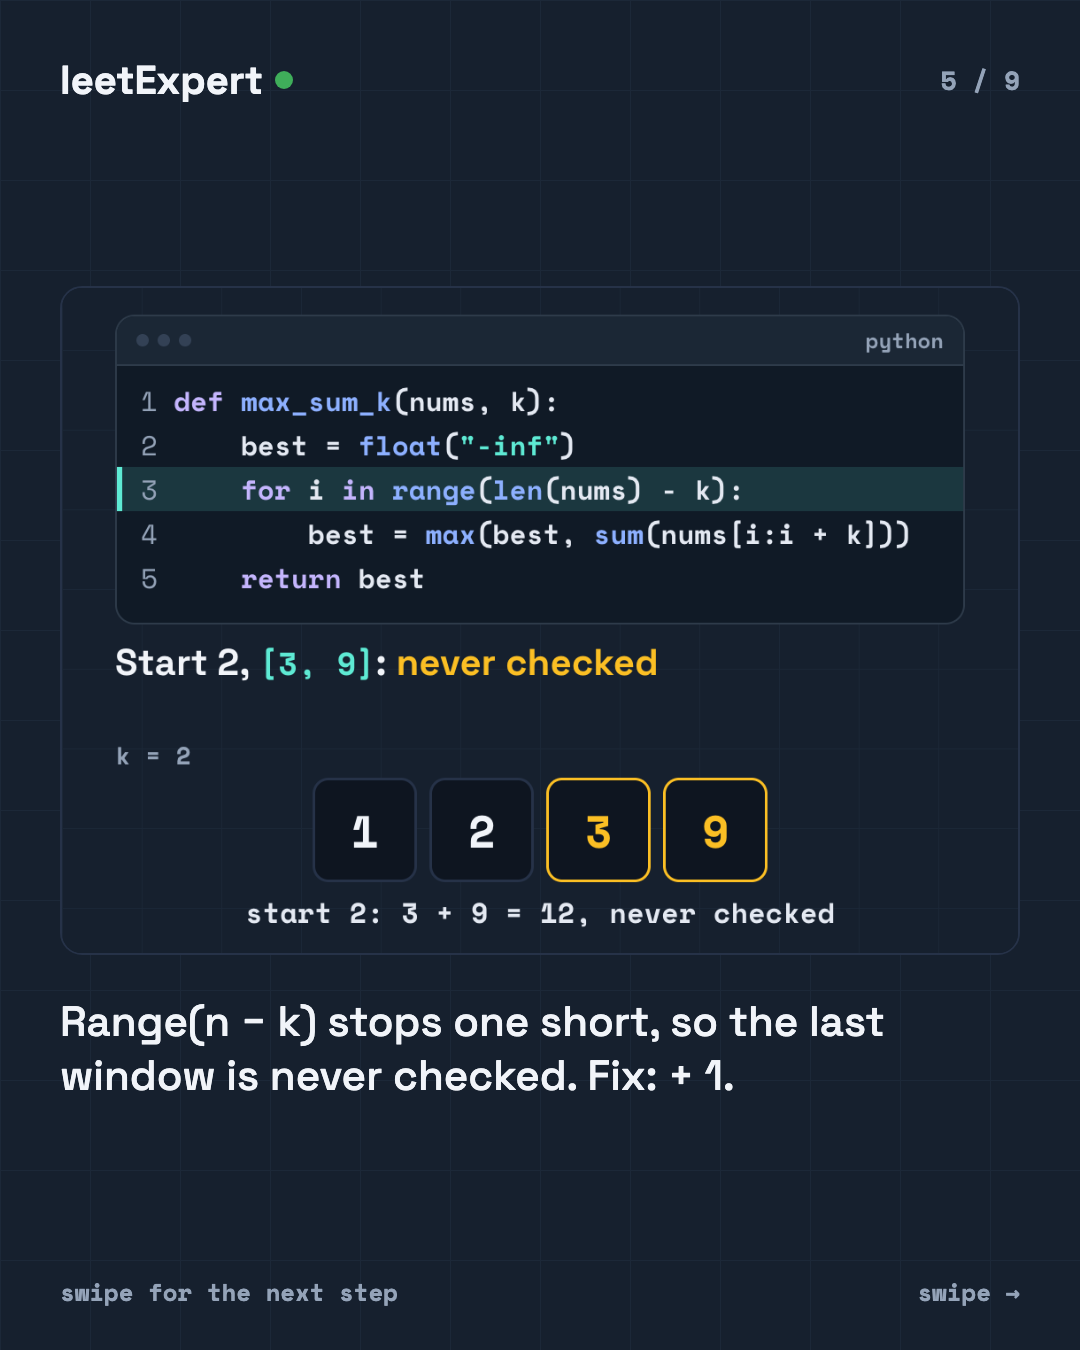
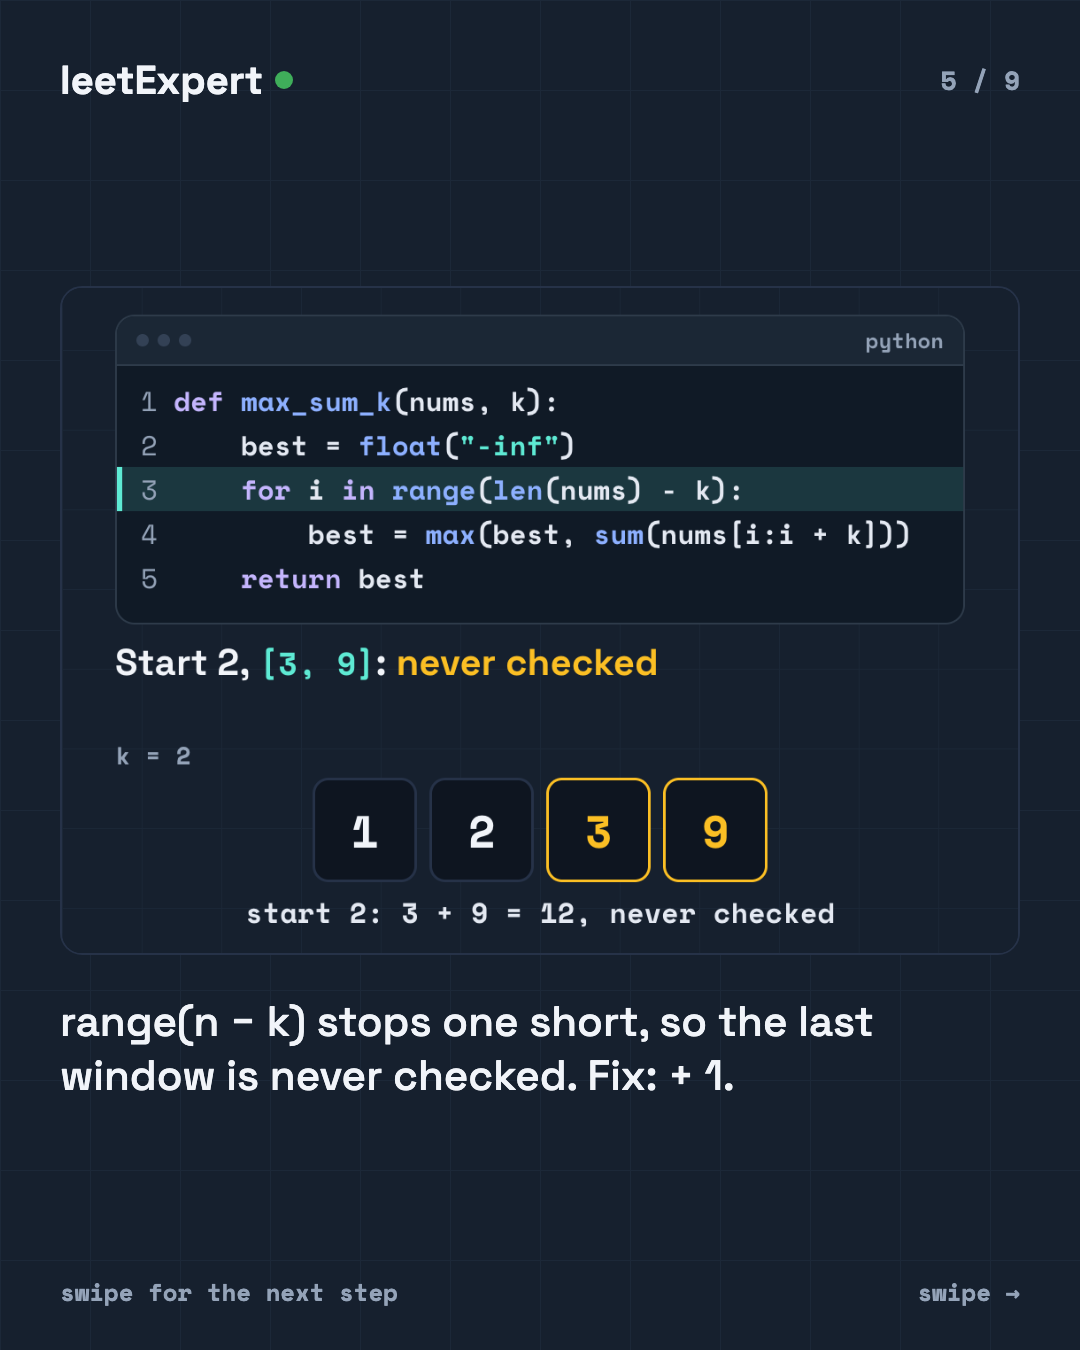
feat(marketing): carousels of the binary-search, JS float-mid and two-pointers reels (#134)
A reel without a rendered cover opens on its hook; slide text is
capitalised only when it does not open on code.

Changed region(s): [[0.2444, 0.7467, 0.825, 0.7778], [0.0611, 0.7467, 0.2139, 0.7778]]

diff --git a/marketing/reels-pipeline/carousel/reelslides.py b/marketing/reels-pipeline/carousel/reelslides.py
@@ -134,15 +134,21 @@ def crop(path, dest):
 
 
 def cap(words):
-    """The reel's words, capitalised because they now start a slide (the check compares them as written)."""
+    """The reel's words, capitalised because they now start a slide (the check compares them as written).
+
+    Never when they open on code: "mid = 7 < 9" is a variable, and "Mid" would be a different one.
+    """
+    if re.match(r"[A-Za-z_]\w*\s*[=(\[.<>+-]", words) or not words[0].islower():
+        return words
     return words[0].upper() + words[1:]
 
 
 def page(n, total, body):
-    """Slide 1 is the reel's cover, whole; the rest carry the brand, a counter and a foot."""
+    """A cover slide is the reel's cover, whole; the rest carry the brand, a counter and a foot."""
     last = n == total
-    head = "" if n == 1 else f'<div class="top"><div class="brand">leetExpert<i></i></div><div class="n">{n} / {total}</div></div>'
-    foot = "" if n == 1 else (f'<div class="foot"><span>{"leetexpert.com" if last else "swipe for the next step"}</span>'
+    full = 'class="cover"' in body
+    head = "" if full else f'<div class="top"><div class="brand">leetExpert<i></i></div><div class="n">{n} / {total}</div></div>'
+    foot = "" if full else (f'<div class="foot"><span>{"leetexpert.com" if last else "swipe for the next step"}</span>'
                               f'<span>{"link in bio" if last else "swipe →"}</span></div>')
     return (f'<!doctype html><html lang="en"><head><meta charset="UTF-8"/><title>slide {n}</title><style>{CSS}</style></head>'
             f'<body>{head}{body}{foot}</body></html>')
@@ -160,10 +166,16 @@ def build(car, snap_frames=False):
         f.unlink()
     d.mkdir(parents=True, exist_ok=True)
     (d / "target").write_text(str(car.relative_to(ROOT)))
-    cover = Image.open(reel / "cover.png").convert("RGB")
-    assert cover.size == (1080, 1920)
-    cover.crop((0, GRID_TOP, 1080, GRID_BOTTOM)).save(d / "cover.png")
-    bodies, alts = [('<div class="cover"><img src="cover.png" alt=""></div>', None)], [section(md, "Hook")]
+    hook = section(md, "Hook")
+    if (reel / "cover.png").exists():
+        cover = Image.open(reel / "cover.png").convert("RGB")
+        assert cover.size == (1080, 1920)
+        cover.crop((0, GRID_TOP, 1080, GRID_BOTTOM)).save(d / "cover.png")
+        bodies, alts = [('<div class="cover"><img src="cover.png" alt=""></div>', None)], [f'The reel\'s cover: "{hook}"']
+    else:
+        # a reel without a rendered cover (its post led with a card) opens on its hook instead
+        bodies = [(f'<div class="content"><div class="k">SAVE THIS</div><div class="say">{e(hook)}</div></div>', None)]
+        alts = [f'A text slide: "{hook}"']
     fi = 0
     for s in spec["slides"]:
         if "at" in s:

diff --git a/marketing/instagram/2026-09-30-two-pointers-reel-carousel/post.md b/marketing/instagram/2026-09-30-two-pointers-reel-carousel/post.md
@@ -1,0 +1,63 @@
+# Two pointers on one card (the real cheatsheet, as a reel and a single image) (carousel)
+
+- **Account:** leetexpert
+- **Archetype:** the reel as a carousel, for people who save rather than watch
+- **Source:** the reel `2026-09-30-two-pointers-card`: its cover, its own frames (captions and tutor off) at the anchors in `sources/slides.json`, and words from its script and caption
+- **Format:** Carousel, 8 slides, 1080×1350
+- **Plan:** issue #134 (epic #132)
+- **Status:** rendered, not scheduled.
+- **Media:** `slide1.png`, `slide2.png`, `slide3.png`, `slide4.png`, `slide5.png`, `slide6.png`, `slide7.png`, `slide8.png`
+
+## Hook (first line — all most people read)
+
+Two pointers on one card. Save this.
+
+## Caption
+
+Two pointers, the whole pattern on one card. 📌 Save this.
+
+Sorted array + pair sum → opposite ends: l at the front, r at the back; too small moves l in, too big moves r in.
+Remove / move while reading ahead → fast & slow: fast explores, slow marks the end of what you keep.
+Area between two lines → move inward, always the shorter side (the taller one can never raise the minimum).
+Merge two sorted lists → one pointer each: take the smaller head, then append the rest.
+
+Targets: O(n) time with O(1) extra space; the merge is O(n+m).
+⚠ Opposite ends needs sorted data.
+⚠ Watch l < r: with l <= r the middle element can pair with itself.
+
+This is the real two-pointers cheatsheet from leetExpert. There are 21, one for every module with practice problems.
+
+Your turn: checking whether a string is a palindrome. Which pattern? 👇
+
+leetExpert, the interactive DSA course. Link in bio.
+
+## Hashtags
+
+#twopointers #cheatsheet #studygram #leetcode #codinginterview
+
+## Alt text (per slide)
+
+**Slide 1.** A text slide: "Two pointers on one card. Save this."
+
+**Slide 2.** Under "Sorted array, pair / triplet sum → Opposite ends", Python two_sum(numbers, target) with l, r = 0, len(numbers) - 1 and while l < r; the branch if s < target: l += 1 is highlighted with the note "Sum too small: move l in". On 2, 7, 11, 15, l is on 2 and r on 7: 2 + 7 = 9.
+
+**Slide 3.** Under "Remove / move while reading ahead → Fast / slow", Python remove_duplicates(nums) with if nums[fast] != nums[slow]: slow += 1; nums[slow] = nums[fast] highlighted and the note "Something new? slow steps forward, takes it". The array reads 0, 1, 2, 3 kept, then dimmed values, with fast on a 4: 4 is new.
+
+**Slide 4.** Under "Container / area between indices → Inward from tallest hope", Python max_area(h) with if h[l] < h[r]: l += 1 else: r -= 1 highlighted and the note "Move the shorter side: the taller one can never raise the minimum". Heights 1, 8, 6, 2, 5, 4, 8, 3, 7; returns 49.
+
+**Slide 5.** Under "Merge two sorted streams → One pointer each", Python merge(a, b) with return out + a[i:] + b[j:] highlighted and the note "One runs out: append the rest". a is 1, 2, 4 and b is 1, 3, 4: + the rest → [1, 1, 2, 3, 4, 4].
+
+**Slide 6.** "Two traps": forgetting the sort prerequisite (opposite-end sum logic is wrong on unsorted data; sort first or pick another pattern) and crossing pointers (the loop condition is usually l < r; equality can double-count the middle element). while l < r ✓ against while l <= r, where [3], 6 → [1, 1] ✗.
+
+**Slide 7.** A text slide under "Your turn": Checking whether a string is a palindrome. Which pattern?
+
+**Slide 8.** Closing slide: every step of this, visualised, in leetExpert, the interactive DSA course. leetexpert.com, link in bio.
+
+## Verified facts
+
+- Every word on a slide is in the reel's `script.txt` or caption (`reelslides.py` fails otherwise), and those are held to the code by the reel's `verify.py` and `verify.mjs`. The frames are the reel's own render at those moments, so the stage shows what the reel's code did.
+- `render.mjs` fails if any slide's text leaves its frame.
+
+## Sources
+
+`sources/slides.json` (the slides), built by `marketing/reels-pipeline/carousel/reelslides.py`; see its README.

diff --git a/marketing/instagram/2026-09-30-js-float-mid-carousel/post.md b/marketing/instagram/2026-09-30-js-float-mid-carousel/post.md
@@ -1,0 +1,67 @@
+# Binary search in JavaScript. One character is wrong. (the float `mid`) (carousel)
+
+- **Account:** leetexpert
+- **Archetype:** the reel as a carousel, for people who save rather than watch
+- **Source:** the reel `2026-09-30-js-float-mid`: its cover, its own frames (captions and tutor off) at the anchors in `sources/slides.json`, and words from its script and caption
+- **Format:** Carousel, 9 slides, 1080×1350
+- **Plan:** issue #134 (epic #132)
+- **Status:** rendered, not scheduled.
+- **Media:** `slide1.png`, `slide2.png`, `slide3.png`, `slide4.png`, `slide5.png`, `slide6.png`, `slide7.png`, `slide8.png`, `slide9.png`
+
+## Hook (first line — all most people read)
+
+Binary search in JavaScript. One character is wrong.
+
+## Caption
+
+Tested on [1, 3, 5, 7, 9, 11, 13]: every target found. Would you ship it? 🤔
+
+const mid = (lo + hi) / 2;
+
+Search [2, 4, 6, 8] for 6 → -1. But 6 is right there.
+
+lo = 0, hi = 3 → (0 + 3) / 2 = 1.5. JavaScript doesn't round, so arr[1.5] is undefined. undefined isn't === 6 and isn't < 6, so the code falls into the last branch: hi = 0.5. It never looks at a real index again.
+
+Why did the tests pass? On 7 numbers, lo + hi is even at every step. The bug only hides on lengths 1, 3, 7, 15…: one less than a power of two.
+
+Python's / makes a float too, but it crashes: "TypeError: list indices must be integers or slices, not float". Loud beats silently wrong.
+
+Fix: const mid = lo + Math.floor((hi - lo) / 2);
+It's always a whole index, and it never adds two huge numbers (overflow-safe in Java/C++).
+
+Your turn: 7 hides the bug. What's the next length that does? 👇
+
+Step through every line on leetExpert, the interactive DSA course. Link in bio.
+
+## Hashtags
+
+#javascript #binarysearch #javascripttips #debugging #webdev
+
+## Alt text (per slide)
+
+**Slide 1.** The reel's cover: "Binary search in JavaScript. One character is wrong."
+
+**Slide 2.** binarySearch([2, 4, 6, 8], 6) → -1 ✗, over the note "6 is right there, at index 2".
+
+**Slide 3.** const mid = (lo + hi) / 2; over the array 2, 4, 6, 8, with a marker between indices 1 and 2 labelled 1.5: lo = 0, hi = 3 → (0 + 3) / 2 = 1.5, and arr[1.5] → undefined.
+
+**Slide 4.** The same array: arr[1.5] is undefined, so === 6? is false and < 6? is false, so hi = mid − 1 = 0.5.
+
+**Slide 5.** "Why the tests passed: on 7 numbers, lo + hi is even at every step." Lengths 1 to 16 in a grid: 1, 3, 7 and 15 are marked hides, the rest fails. Hides only on 2^k − 1: one less than a power of two.
+
+**Slide 6.** "Python, same slash": mid = (lo + hi) / 2 gives TypeError: list indices must be integers or slices, not float. Loud beats silently wrong.
+
+**Slide 7.** The fixed JavaScript binarySearch with const mid = lo + Math.floor((hi - lo) / 2); highlighted and the note "Never adds two huge numbers: overflow-safe in Java or C++"; the stage shows 2, 4 dimmed and lo on 6: 4 < 6 → lo = 2.
+
+**Slide 8.** A text slide under "Your turn": 7 hides the bug. What's the next length that does?
+
+**Slide 9.** Closing slide: every step of this, visualised, in leetExpert, the interactive DSA course. leetexpert.com, link in bio.
+
+## Verified facts
+
+- Every word on a slide is in the reel's `script.txt` or caption (`reelslides.py` fails otherwise), and those are held to the code by the reel's `verify.py` and `verify.mjs`. The frames are the reel's own render at those moments, so the stage shows what the reel's code did.
+- `render.mjs` fails if any slide's text leaves its frame.
+
+## Sources
+
+`sources/slides.json` (the slides), built by `marketing/reels-pipeline/carousel/reelslides.py`; see its README.

diff --git a/marketing/instagram/2026-09-30-binary-search-halves-carousel/post.md b/marketing/instagram/2026-09-30-binary-search-halves-carousel/post.md
@@ -1,0 +1,74 @@
+# Watch binary search throw away half (carousel)
+
+- **Account:** leetexpert
+- **Archetype:** the reel as a carousel, for people who save rather than watch
+- **Source:** the reel `2026-09-30-binary-search-halves`: its cover, its own frames (captions and tutor off) at the anchors in `sources/slides.json`, and words from its script and caption
+- **Format:** Carousel, 10 slides, 1080×1350
+- **Plan:** issue #134 (epic #132)
+- **Status:** rendered, not scheduled.
+- **Media:** `slide1.png`, `slide2.png`, `slide3.png`, `slide4.png`, `slide5.png`, `slide6.png`, `slide7.png`, `slide8.png`, `slide9.png`, `slide10.png`
+
+## Hook (first line — all most people read)
+
+Watch binary search throw away half.
+
+## Caption
+
+Find 9 in [1, 3, 5, 7, 9, 11, 13]. 📖 Do what you'd do with a paper dictionary: open the middle, keep one half, ignore the other.
+
+mid = 7 < 9 → everything up to 7 is too small. Gone.
+mid = 11 > 9 → 11 and everything after it. Gone.
+mid = 9 → found, in 3 checks.
+
+def binary_search(arr, target):
+    lo, hi = 0, len(arr) - 1
+    while lo <= hi:
+        mid = lo + (hi - lo) // 2
+        if arr[mid] == target: return mid
+        elif arr[mid] < target: lo = mid + 1
+        else: hi = mid - 1
+    return -1
+
+Each check halves the range: O(log n). A million sorted numbers take at most 20 checks. A billion, 30.
+
+⚠ The classic bug: lo = mid instead of mid + 1. Search [1, 3] for 3: mid stays 0 and lo stays 0, forever.
+⚠ It only works on sorted data, or anything where one comparison tells you which half to drop.
+
+Your turn: how many checks to find 13 in this list? 👇
+
+Step through every line on leetExpert, the interactive DSA course. Link in bio.
+
+## Hashtags
+
+#binarysearch #algorithms #computerscience #python #leetcode
+
+## Alt text (per slide)
+
+**Slide 1.** The reel's cover: "Watch binary search throw away half."
+
+**Slide 2.** "A paper dictionary": an open book.
+
+**Slide 3.** The sorted list 1, 3, 5, 7, 9, 11, 13 with 1 to 5 dimmed and 7 ringed; lo sits on 9 and hi on 13: mid = 7 < 9 → drop 7 and everything left of it.
+
+**Slide 4.** The same list with only 9 still lit and 11 ringed; lo and hi both on 9: mid = 11 > 9 → drop 11 and everything right.
+
+**Slide 5.** 9 ringed with lo and hi on it: mid = 9 → found in 3 checks.
+
+**Slide 6.** Python binary_search(arr, target): lo, hi = 0, len(arr) - 1; while lo <= hi: mid = lo + (hi - lo) // 2, returning mid on a match, lo = mid + 1 when arr[mid] < target, else hi = mid - 1; return -1. The else branch is highlighted with the note "Too big: move hi below mid"; on the list, 11 > 9 → hi = 4.
+
+**Slide 7.** "1,000,000 sorted numbers": check 20 leaves at most 1, so at most 20 checks; 1,000,000,000 → at most 30.
+
+**Slide 8.** "The classic bug": lo = mid + 1 ✓ against lo = mid ✗. On [1, 3], find 3: lo = 0, hi = 1, mid = 0; 1 < 3 → lo = mid = 0 … again, forever.
+
+**Slide 9.** A text slide under "Your turn": How many checks to find 13 in this list?
+
+**Slide 10.** Closing slide: every step of this, visualised, in leetExpert, the interactive DSA course. leetexpert.com, link in bio.
+
+## Verified facts
+
+- Every word on a slide is in the reel's `script.txt` or caption (`reelslides.py` fails otherwise), and those are held to the code by the reel's `verify.py` and `verify.mjs`. The frames are the reel's own render at those moments, so the stage shows what the reel's code did.
+- `render.mjs` fails if any slide's text leaves its frame.
+
+## Sources
+
+`sources/slides.json` (the slides), built by `marketing/reels-pipeline/carousel/reelslides.py`; see its README.

diff --git a/marketing/instagram/2026-09-30-max-sum-k-window-carousel/post.md b/marketing/instagram/2026-09-30-max-sum-k-window-carousel/post.md
@@ -41,7 +41,7 @@ Step through every line on leetExpert, the interactive DSA course. Link in bio.
 
 ## Alt text (per slide)
 
-**Slide 1.** Max sum of k numbers in a row. Looks clean.
+**Slide 1.** The reel's cover: "Max sum of k numbers in a row. Looks clean."
 
 **Slide 2.** Python max_sum_k(nums, k) tagged "AI · passes the sample": best = float("-inf"); for i in range(len(nums) - k): best = max(best, sum(nums[i:i + k])); return best. Under it [2, 1, 5, 1, 3, 2], k = 3 → 9 ✓, with the windows walked on the array.
 

diff --git a/marketing/instagram/2026-09-30-prefix-sum-odometer-carousel/post.md b/marketing/instagram/2026-09-30-prefix-sum-odometer-carousel/post.md
@@ -45,7 +45,7 @@ Step through it on leetExpert, the interactive DSA course. Link in bio.
 
 ## Alt text (per slide)
 
-**Slide 1.** Answer any range sum in O(1).
+**Slide 1.** The reel's cover: "Answer any range sum in O(1)."
 
 **Slide 2.** The array nums, 2, 4, 1, 5, 3, indexed 0 to 4, with a bracket over indices 1 to 3 labelled 4 + 1 + 5 = 10.
 
